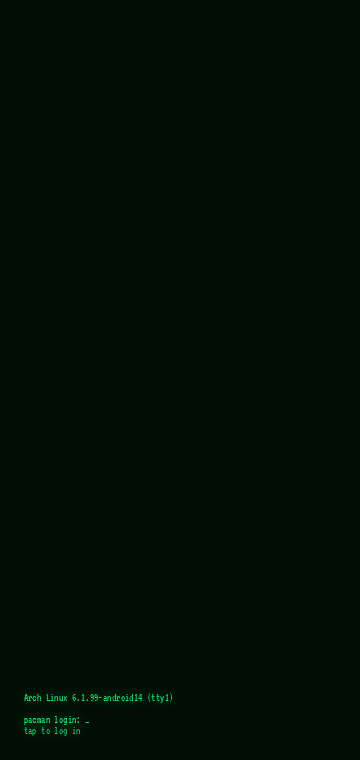
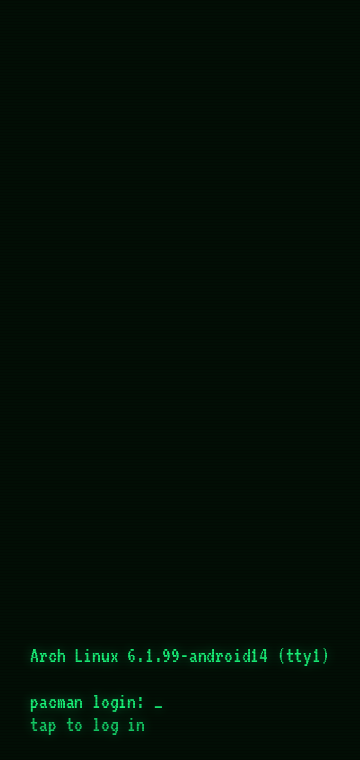
Gallery: size still images by their own frame

Changed region(s): [[0.0917, 0.8474, 0.9167, 0.8776], [0.0611, 0.9079, 0.4889, 0.9684]]

diff --git a/tools/gallery.py b/tools/gallery.py
@@ -130,7 +130,10 @@ def write(kind, name, item):
     frames = item["frames"]
     os.makedirs(os.path.join(OUT, kind), exist_ok=True)
     layout = fit(frames)
-    still = render(frames[-1] if kind == "lock" else frames[0], layout)
+    still_frame = frames[-1] if kind == "lock" else frames[0]
+    # The still is sized by its own frame, so a short final screen isn't drawn at the size
+    # the longest boot frame needed; GIFs keep one layout for all frames so nothing jitters.
+    still = render(still_frame, fit([still_frame]))
     still.save(os.path.join(OUT, kind, f"{slug}.png"), optimize=True)
     if len(frames) > 1:
         images = [render(f, layout).convert("P", palette=Image.ADAPTIVE, colors=32) for f in frames]
